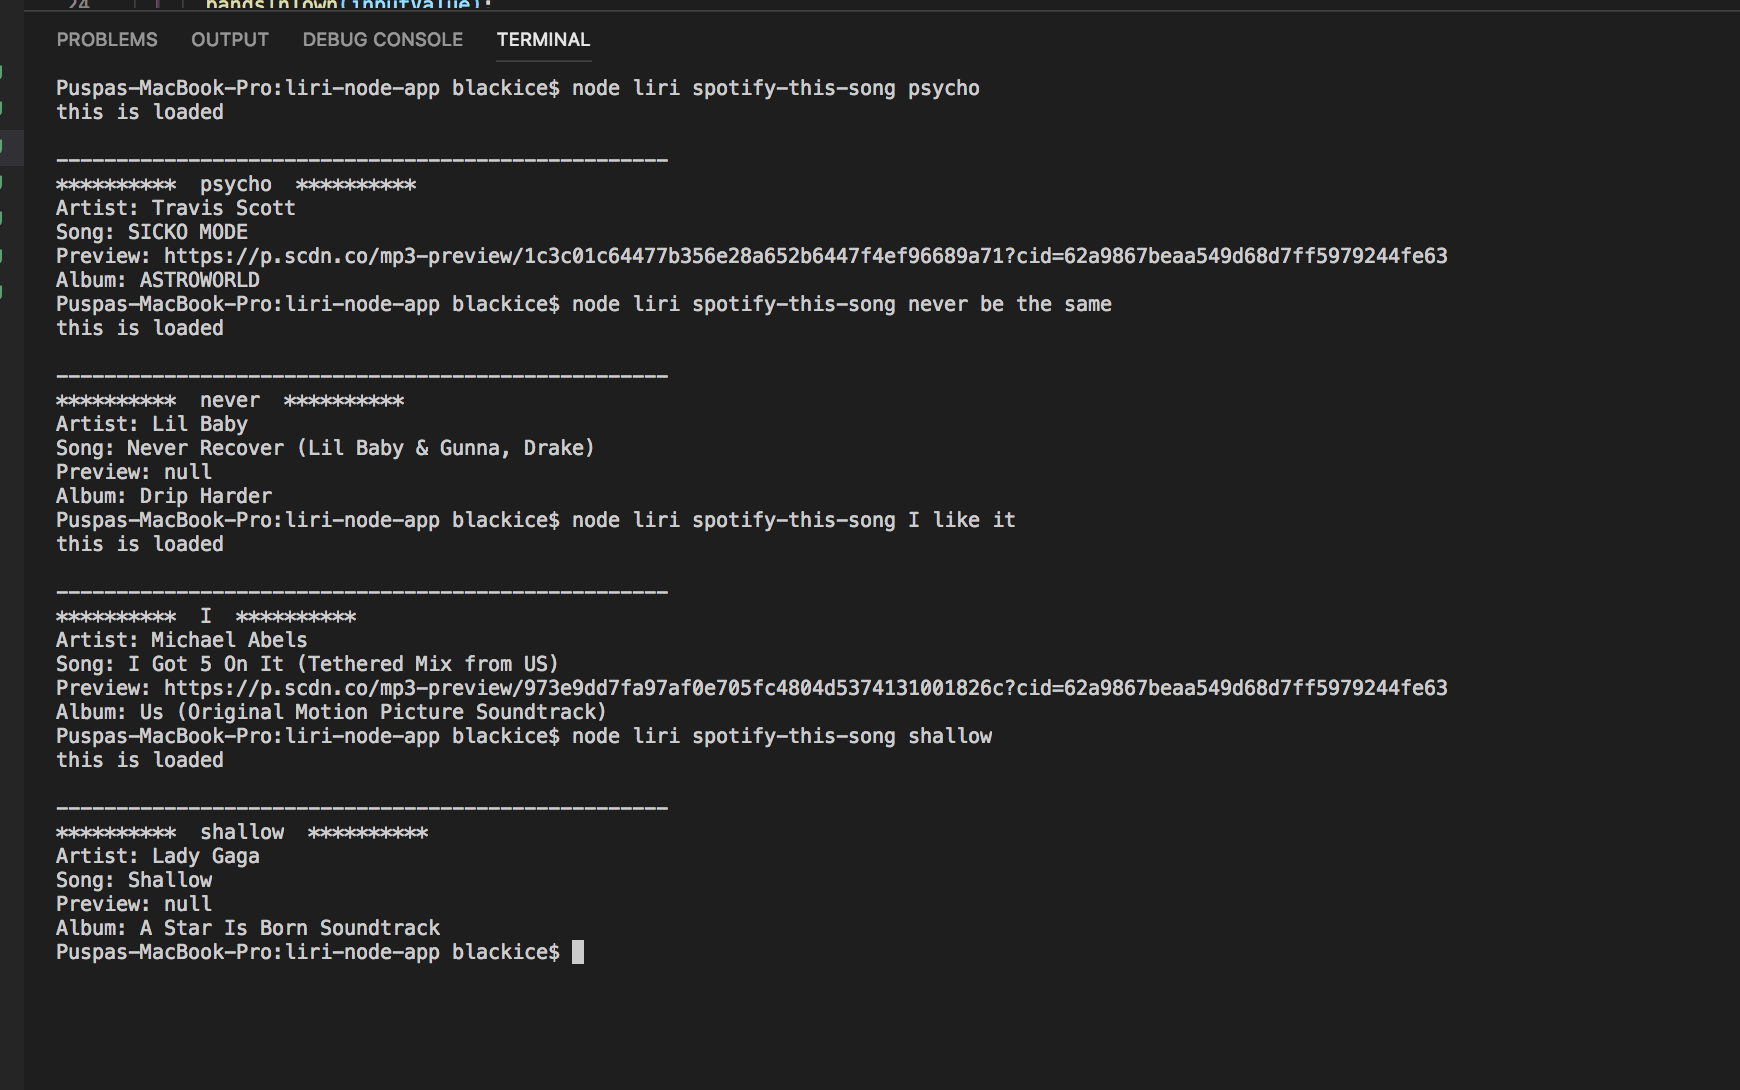
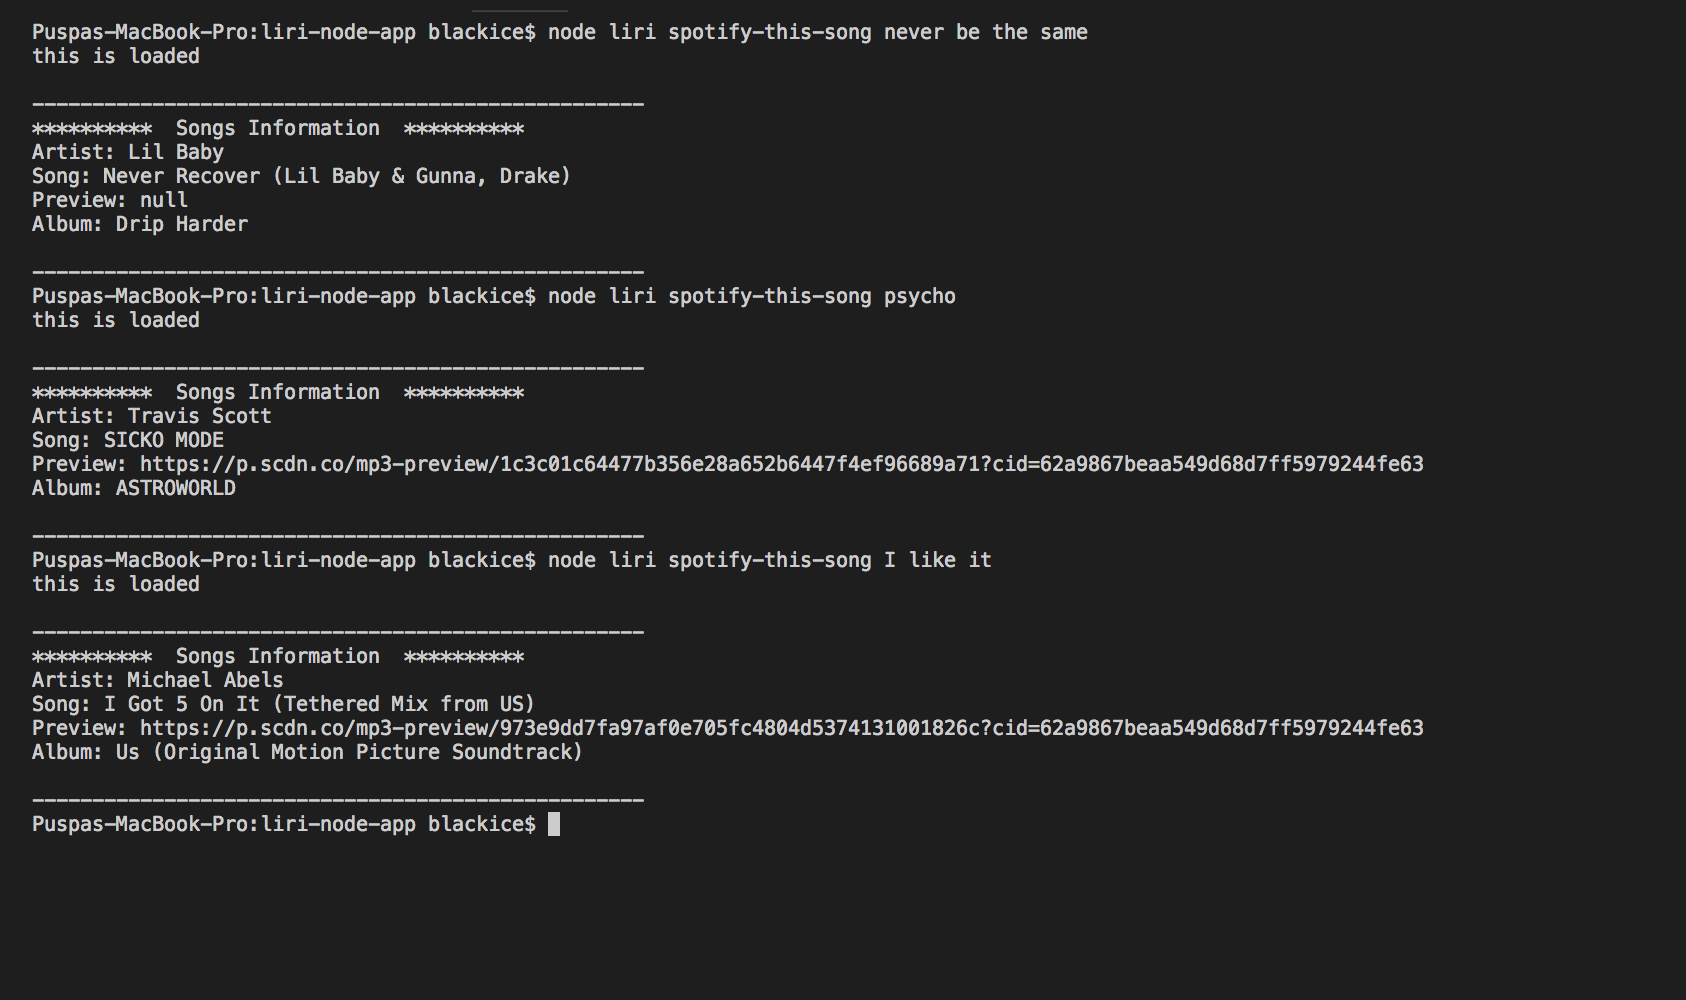
update 4

Changed region(s): [[0.0, 0.0, 0.8636, 0.899]]

diff --git a/liri.js b/liri.js
@@ -116,6 +116,7 @@ function findSong(inputValue) {
       textLog("Song: " + data.tracks.items[0].name);
       textLog("Preview: " + data.tracks.items[0].preview_url);
       textLog("Album: " + data.tracks.items[0].album.name);
+      textLog("\n---------------------------------------------------");
     }
   });
 };

diff --git a/README.md b/README.md
@@ -1,7 +1,7 @@
 # liri-node-app
 Creator: Puspa Sharma
 
-Created on: March 24 2019
+Created on: March 22 2019
 
 # ABOUT THE APP
 LIRI is a Language Interpretation and Recognition Interface. LIRI is a command line node app that takes in parameters and gives back data. The user has the option of using four commands (listed below) in conjuntion with specific parameters associated with the commands. The Commands are:
@@ -24,9 +24,20 @@ Depending on the command you run, the output will vary.
 
 ** ** Run the concert-this command
 
-        node liri concert-this (artists name or band name) **
+       1. node liri concert-this (artists name or band name) **
 
 <img src="screenshots/screen5.png" width="400px">
 
+       2.node liri spotify-this-song
 
-**
+<img src="screenshots/screen1.png" width="400px">
+    
+    
+       3.node liri spotify-this-song (song)
+
+<img src="screenshots/screen2.png" width="400px">
+
+      4 node liri movie-this (without movie name)
+
+<img src="screenshots/screen3.png" width="400px">
+        node liri movie-this (with movie name)
